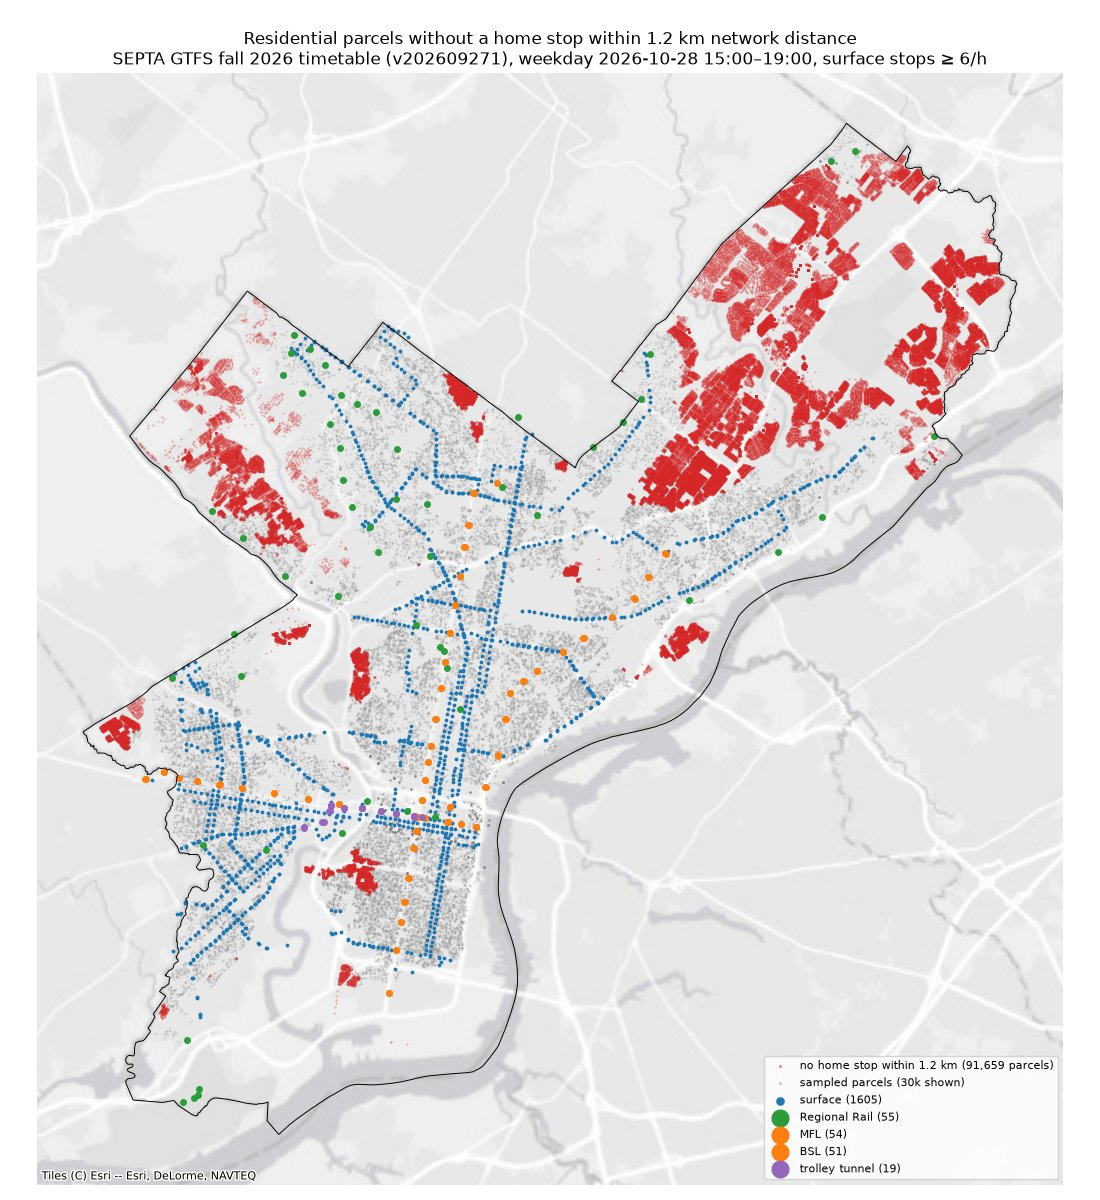
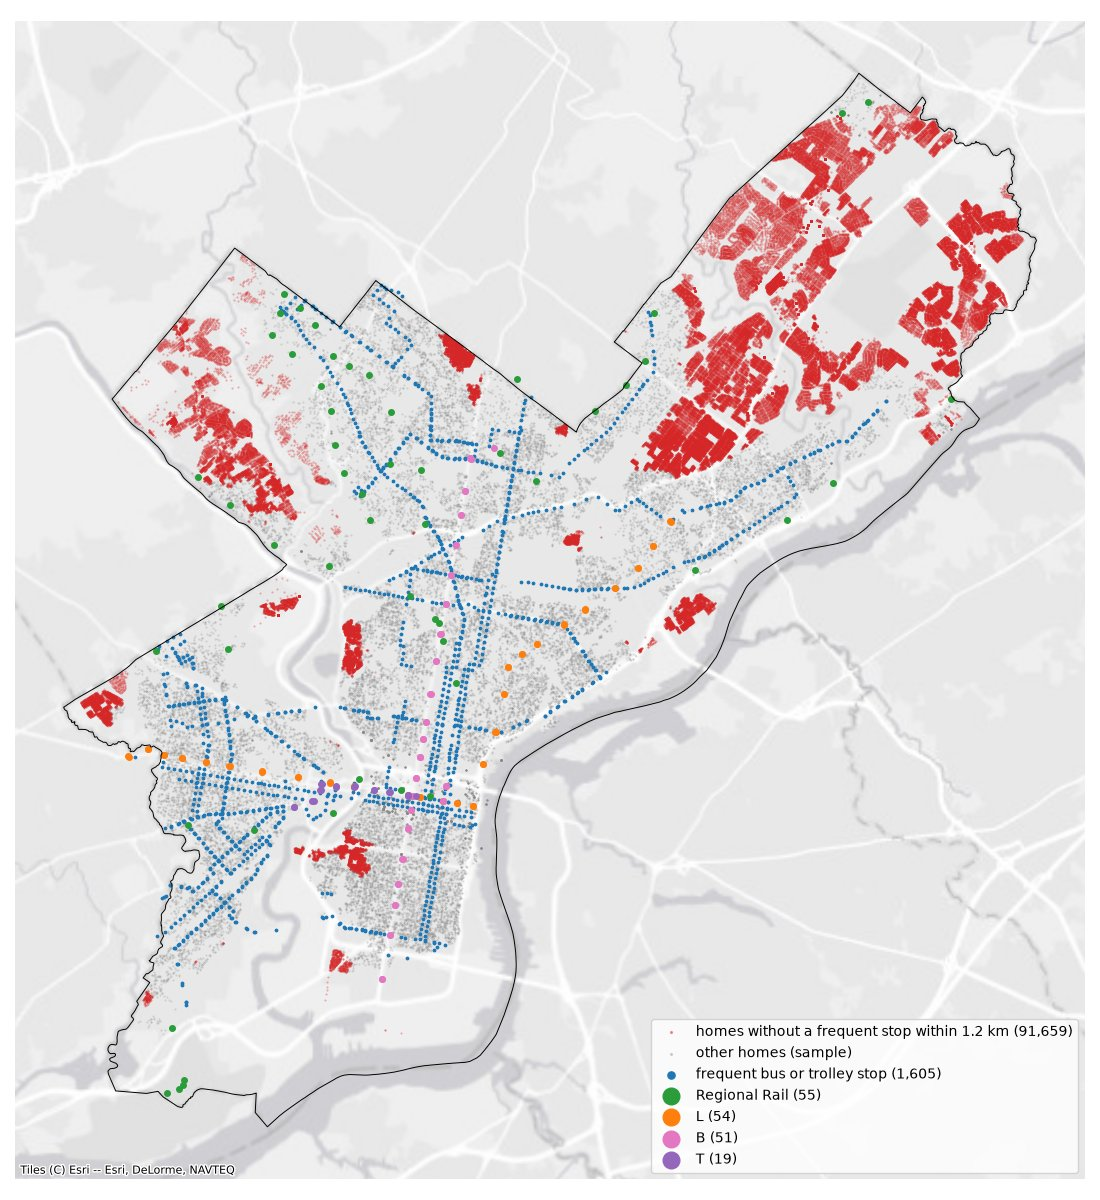
Website build 2026-11-15 from solweig bd204e4

diff --git a/data.html b/data.html
@@ -122,10 +122,9 @@ ul.task-list li input[type="checkbox"] {
    
   <ul class="collapse">
   <li><a href="#sources" id="toc-sources" class="nav-link active" data-scroll-target="#sources">Sources</a></li>
-  <li><a href="#the-shade-map" id="toc-the-shade-map" class="nav-link" data-scroll-target="#the-shade-map">The shade map</a></li>
+  <li><a href="#heights-and-shade" id="toc-heights-and-shade" class="nav-link" data-scroll-target="#heights-and-shade">Heights and shade</a></li>
   <li><a href="#the-heat-model" id="toc-the-heat-model" class="nav-link" data-scroll-target="#the-heat-model">The heat model</a></li>
   <li><a href="#whose-walks" id="toc-whose-walks" class="nav-link" data-scroll-target="#whose-walks">Whose walks</a></li>
-  <li><a href="#university-city" id="toc-university-city" class="nav-link" data-scroll-target="#university-city">University City</a></li>
   <li><a href="#known-gaps" id="toc-known-gaps" class="nav-link" data-scroll-target="#known-gaps">Known gaps</a></li>
   </ul>
 </nav>
@@ -187,7 +186,7 @@ ul.task-list li input[type="checkbox"] {
 </tr>
 <tr class="even">
 <td>Canopy height (CHMv2)</td>
-<td>Meta / WRI, CC BY 4.0</td>
+<td>Meta / WRI</td>
 <td>trees just outside the city</td>
 </tr>
 <tr class="odd">
@@ -197,30 +196,35 @@ ul.task-list li input[type="checkbox"] {
 </tr>
 <tr class="even">
 <td>OpenStreetMap</td>
-<td>OSM contributors, ODbL</td>
-<td>bridges, covered walkways, campus footways</td>
+<td>OSM contributors</td>
+<td>bridges, covered walkways, campus footways in University City</td>
 </tr>
 <tr class="odd">
-<td>Transit</td>
-<td>SEPTA, fall 2026 timetable</td>
-<td>stations and frequent bus stops</td>
+<td>Building entrances and indoor passages</td>
+<td>mapped for this project, 41 buildings in University City</td>
+<td>walks through buildings</td>
 </tr>
 <tr class="even">
+<td>Transit</td>
+<td>SEPTA, fall 2026 timetable</td>
+<td>stations and frequent bus or trolley stops</td>
+</tr>
+<tr class="odd">
 <td>Properties</td>
 <td>City of Philadelphia (OPA)</td>
 <td>homes, where walks end</td>
 </tr>
-<tr class="odd">
+<tr class="even">
 <td>Hourly weather</td>
 <td>ERA5 (ECMWF), via Open-Meteo</td>
 <td>weather for the heat model</td>
 </tr>
-<tr class="even">
+<tr class="odd">
 <td>Heat model</td>
 <td>SOLWEIG 2022a (solweig-gpu 2.0.0)</td>
 <td>felt temperature (UTCI) at 1 m</td>
 </tr>
-<tr class="odd">
+<tr class="even">
 <td>Surface temperature, air temperature</td>
 <td>USGS Landsat 8; NOAA ACIS</td>
 <td>heat figures on the Story page</td>
@@ -228,8 +232,8 @@ ul.task-list li input[type="checkbox"] {
 </tbody>
 </table>
 </section>
-<section id="the-shade-map" class="level2">
-<h2 class="anchored" data-anchor-id="the-shade-map">The shade map</h2>
+<section id="heights-and-shade" class="level2">
+<h2 class="anchored" data-anchor-id="heights-and-shade">Heights and shade</h2>
 <div class="stat-row">
 <div>
 <div class="v">
@@ -252,25 +256,17 @@ points checked for shade, every 2 m
 24
 </div>
 <div class="label">
-hours: June 24 and July 29, 8:00–19:00
-</div>
-</div>
-<div>
-<div class="v">
-1 m
-</div>
-<div class="label">
-height model of buildings and trees
+hours modelled: 8:00–19:00 on two days
 </div>
 </div>
 </div>
-<p>Heights come from the 2022 LiDAR survey. Building heights match the city’s records to 0.5 m (median, 541,222 buildings); bridges and elevated rail cast shadows too. Trees cover 17% of the city (median height 15 m). Covered walkways (4.2 km) are always in shade.</p>
-<div id="0879cbdc" class="cell figure-light" data-execution_count="4">
+<p>Bridges and elevated rail cast shadows as well as buildings and trees. Trees cover 17% of the city (median height 15 m). Covered walkways (4.2 km) are always in shade.</p>
+<div id="c01bf769" class="cell figure-light" data-execution_count="4">
 <div class="cell-output cell-output-display" data-execution_count="4">
 <div class="quarto-figure quarto-figure-center">
 <figure class="figure">
 <p><img src="data_files/figure-html/cell-5-output-1.jpeg" class="img-fluid figure-img"></p>
-<figcaption>University City in the height model: buildings (blue and pink), bridges and other structures (orange) and trees (green).</figcaption>
+<figcaption>University City in the height model: buildings with LiDAR heights (blue) or recorded heights (pink), bridges and other structures (orange) and trees (green).</figcaption>
 </figure>
 </div>
 </div>
@@ -278,8 +274,8 @@ height model of buildings and trees
 </section>
 <section id="the-heat-model" class="level2">
 <h2 class="anchored" data-anchor-id="the-heat-model">The heat model</h2>
-<p>Shade says where the sun is blocked, not how hot a sidewalk feels. For that, the same heights go into SOLWEIG, which computes the radiation a standing person receives from sun, sky, walls and ground and, with the weather, the <strong>UTCI</strong>: how hot it feels, in °C. Above 38 °C is <em>very strong</em> heat stress, above 46 °C <em>extreme</em>.</p>
-<p>The model needs real weather, so the study uses two hot, sunny days of 2025: <strong>June 24</strong>, during a heat wave, and <strong>July 29</strong>. Shadows are computed for the same moments.</p>
+<p>Shade says where the sun is blocked, not how hot a sidewalk feels. SOLWEIG takes the same heights and the weather and computes the radiation a standing person receives from the sun, the sky, walls and the ground. From it comes the <strong>UTCI</strong>, how hot it feels in °C. Above 38 °C is <em>very strong</em> heat stress, above 46 °C <em>extreme</em>.</p>
+<p>The heat model uses the weather of two hot, sunny days in 2025: <strong>June 24</strong>, during a heat wave, and <strong>July 29</strong>.</p>
 <table class="caption-top table">
 <colgroup>
 <col style="width: 16%">
@@ -318,12 +314,12 @@ height model of buildings and trees
 </tr>
 </tbody>
 </table>
-<p>One ERA5 cell covers the whole city, so air temperature and wind are the same everywhere; the heat map varies with sun, shade, walls and ground. The model ran in 400 one-kilometre tiles per day on a GPU and gives a UTCI value at all 3.6 million sidewalk points, every hour.</p>
+<p>One ERA5 cell covers the whole city, so air temperature and wind are the same everywhere; the heat map varies with sun, shade, walls and ground.</p>
 </section>
 <section id="whose-walks" class="level2">
 <h2 class="anchored" data-anchor-id="whose-walks">Whose walks</h2>
-<p>Each walk starts at a rapid-transit station (Regional Rail, L, B, T tunnel) or at a bus stop with at least 6 buses an hour (15:00–19:00), and ends at a home within 1.2 km on foot: 431,114 walks. The other 91,659 homes (17.5%), mostly in the Northeast and Roxborough, have no frequent stop that close.</p>
-<div id="bb39a9d6" class="cell figure-light" data-execution_count="8">
+<p>Each walk starts at a rapid-transit station (Regional Rail, the L and B subway lines, and the T trolley tunnel) or at a bus or trolley stop with at least 6 departures an hour on one route between 15:00 and 19:00, and ends at a home within 1.2 km on foot: 431,114 walks. The other 91,659 homes (17.5%), mostly in the Northeast and Roxborough, have no frequent stop that close.</p>
+<div id="afdf9aa1" class="cell figure-light" data-execution_count="8">
 <div class="cell-output cell-output-display" data-execution_count="8">
 <div class="quarto-figure quarto-figure-center">
 <figure class="figure">
@@ -334,18 +330,12 @@ height model of buildings and trees
 </div>
 </div>
 </section>
-<section id="university-city" class="level2">
-<h2 class="anchored" data-anchor-id="university-city">University City</h2>
-<p>In University City, entrances and indoor passages of 41 buildings were mapped (4.4 km; 10 buildings open without a Penn ID), and campus footpaths from OpenStreetMap were added.</p>
-</section>
 <section id="known-gaps" class="level2">
 <h2 class="anchored" data-anchor-id="known-gaps">Known gaps</h2>
 <ul>
 <li>Campus and park paths are missing outside University City, so cooler options there are understated.</li>
-<li>Two clear, hot days; trees from leaf-off LiDAR and 2018 land cover, buildings from 2022.</li>
-<li>One weather cell for the city: no neighbourhood differences in air temperature or wind. Trees let a fixed 3% of the sun through.</li>
-<li>Missing footprints, new buildings and temporary objects affect shade locally.</li>
-<li>The timetable is one weekday in fall 2026.</li>
+<li>Milder or cloudy days are not modelled.</li>
+<li>Trees come from leaf-off LiDAR and 2018 land cover, and let a fixed 3% of the sun through.</li>
 </ul>
 
 

diff --git a/methods.html b/methods.html
@@ -156,7 +156,6 @@ window.Quarto = {
   <li><a href="#walks-home-from-transit" id="toc-walks-home-from-transit" class="nav-link" data-scroll-target="#walks-home-from-transit">Walks home from transit</a></li>
   <li><a href="#metrics" id="toc-metrics" class="nav-link" data-scroll-target="#metrics">Metrics</a></li>
   <li><a href="#indoor-scenarios-university-city" id="toc-indoor-scenarios-university-city" class="nav-link" data-scroll-target="#indoor-scenarios-university-city">Indoor scenarios (University City)</a></li>
-  <li><a href="#how-we-checked" id="toc-how-we-checked" class="nav-link" data-scroll-target="#how-we-checked">How we checked</a></li>
   </ul>
 </nav>
     </div>
@@ -187,7 +186,7 @@ window.Quarto = {
 <h2 class="anchored" data-anchor-id="pipeline">Pipeline</h2>
 <ol type="1">
 <li><strong>Heights.</strong> 2022 LiDAR: ground, buildings and trees at 1 m.</li>
-<li><strong>Shadows.</strong> Every hour from 8:00 to 19:00 on June 24 and July 29, 2025, a ray from every 2 m of sidewalk towards the sun: <em>building shade</em> if a building, bridge or the ground blocks it, <em>tree shade</em> if only trees do, otherwise sun. The sun of an hour sits at half past the hour before (15:00 = 14:30), as in the heat model.</li>
+<li><strong>Shadows.</strong> Every hour from 8:00 to 19:00 on June 24 and July 29, 2025, a ray is cast from every 2 m of sidewalk towards the sun. A point is in <em>building shade</em> if a building, a bridge or the ground blocks the ray, in <em>tree shade</em> if only trees do, and in the sun otherwise.</li>
 <li><strong>Heat.</strong> SOLWEIG turns the same heights and the weather into the <strong>UTCI</strong>, how hot it feels, at every square metre.</li>
 <li><strong>Sidewalks.</strong> Each sidewalk gets, per hour, its metres of sun, tree shade and building shade, and its UTCI.</li>
 <li><strong>Routes.</strong> Each walk has three routes: <strong>shortest</strong>, <strong>shadiest</strong> (shade cost) and <strong>coolest</strong> (heat cost).</li>
@@ -198,7 +197,7 @@ window.Quarto = {
 <p>The shadiest walk uses the cost function of Wen et al.&nbsp;(2025):</p>
 <p><span class="math display">\[C = L_{\text{sun}} + (1 - 0.5\,\theta)\,L_{\text{tree}} + (1 - \theta)\,L_{\text{building}} + (1 - 1.5\,\theta)\,L_{\text{indoor}}\]</span></p>
 <p>A sunny metre costs 1, tree shade 1 − 0.5θ, building shade 1 − θ, an indoor metre 1 − 1.5θ. θ grows with the distance already walked, so shade matters more the longer the walk:</p>
-<div id="89956d1a" class="cell" data-execution_count="3">
+<div id="50773cd6" class="cell" data-execution_count="3">
 <div class="cell-output cell-output-display" data-execution_count="3">
 <div class="quarto-figure quarto-figure-center">
 <figure class="figure">
@@ -212,14 +211,13 @@ window.Quarto = {
 </section>
 <section id="the-cost-of-a-hot-metre" class="level2">
 <h2 class="anchored" data-anchor-id="the-cost-of-a-hot-metre">The cost of a hot metre</h2>
-<p>The coolest walk keeps θ but values each metre by its UTCI:</p>
+<p>The coolest walk uses the same θ but prices each metre by its UTCI instead of its shade class:</p>
 <p><span class="math display">\[C_{\text{heat}} = \sum_{\text{edges}} L\,(1 - \theta\,r), \qquad r = \frac{U_{\text{sun}} - U}{U_{\text{sun}} - U_{\text{building}}}\]</span></p>
-<p><span class="math inline">\(U\)</span> is the sidewalk’s UTCI; <span class="math inline">\(U_{\text{sun}}\)</span> and <span class="math inline">\(U_{\text{building}}\)</span> are the city medians in sun and in building shade at that hour (15:00: about 45.3 and 40.5 °C). A typically sunny metre costs 1 and a typically building-shaded one 1 − θ, as in the shade cost; everything in between follows its UTCI (<span class="math inline">\(r\)</span> kept between −1 and 1.5). Indoor passages have no UTCI, so the coolest walk stays outdoors.</p>
+<p><span class="math inline">\(U\)</span> is the sidewalk’s UTCI; <span class="math inline">\(U_{\text{sun}}\)</span> and <span class="math inline">\(U_{\text{building}}\)</span> are the city medians in sun and in building shade at that hour (at 15:00 on June 24, 45.9 and 41.3 °C). A metre as hot as a typical sunny sidewalk costs 1, and a metre as cool as typical building shade costs 1 − θ, as in the shade cost. Every other metre falls in between, in proportion to its UTCI. Indoor passages have no UTCI, so the coolest walk stays outdoors.</p>
 </section>
 <section id="walks-home-from-transit" class="level2">
 <h2 class="anchored" data-anchor-id="walks-home-from-transit">Walks home from transit</h2>
-<p>Every home within 1.2 km of a frequent stop is one walk, stop to home (431,114 walks). Results are reported by length (under 300 m, 300–800 m, 800–1,200 m), since short walks rarely have an alternative, and for rapid transit and buses separately.</p>
-<p>The direction does not matter: walking home to stop instead gives a mean sun reduction of 13.8% against 13.8% (500 walks, correlation 0.99).</p>
+<p>Each walk runs from the stop to the home. Results are reported by walk length (under 300 m, 300–800 m, 800–1,200 m), since short walks rarely have an alternative, and for stations and bus or trolley stops separately.</p>
 </section>
 <section id="metrics" class="level2">
 <h2 class="anchored" data-anchor-id="metrics">Metrics</h2>
@@ -285,15 +283,11 @@ window.Quarto = {
 </tr>
 </tbody>
 </table>
-<p>Weighted exposure falls about a tenth as much as sun: with θ near 0.2, each metre of sun avoided lowers C by only 0.15–0.2 m.</p>
+<p>Weighted exposure falls much less than sun because, with θ near 0.2, each metre of sun avoided lowers C by only 0.15–0.2 m.</p>
 </section>
 <section id="indoor-scenarios-university-city" class="level2">
 <h2 class="anchored" data-anchor-id="indoor-scenarios-university-city">Indoor scenarios (University City)</h2>
 <p>Mapped entrances are linked to the nearest sidewalk; passages through buildings count as indoor walking. Three cases: outdoor only, plus buildings open without a Penn ID, plus all mapped buildings. The shortest route is always the outdoor one.</p>
-</section>
-<section id="how-we-checked" class="level2">
-<h2 class="anchored" data-anchor-id="how-we-checked">How we checked</h2>
-<p>The five stations with the largest sun reduction were checked on aerial photos; checks of the heat model are in the <a href="./technical.html">technical notes</a>.</p>
 
 
 </section>

diff --git a/app/walk.html b/app/walk.html
@@ -8,7 +8,7 @@
 <link rel="preconnect" href="https://fonts.gstatic.com" crossorigin>
 <link href="https://fonts.googleapis.com/css2?family=IBM+Plex+Sans:wght@300;400;500&family=Space+Grotesk:wght@500;600&family=Space+Mono&display=swap" rel="stylesheet">
 <link rel="stylesheet" href="vendor/maplibre-gl.css">
-<link rel="stylesheet" href="css/site.css?v=9270be5">
+<link rel="stylesheet" href="css/site.css?v=bd204e4">
 <style>
   /* preview of story screen 13: the map fills the window, text on the left, the profile at the bottom */
   #map { position: fixed; inset: 0; }
@@ -58,8 +58,8 @@
 </div>
 <script src="vendor/maplibre-gl.js"></script>
 <script type="module">
-  import { nav, baseStyle, getJSON, newMap, DEMO_CENTER } from "./js/common.js?v=9270be5";
-  import { createWalk } from "./js/walk.js?v=9270be5";
+  import { nav, baseStyle, getJSON, newMap, DEMO_CENTER } from "./js/common.js?v=bd204e4";
+  import { createWalk } from "./js/walk.js?v=bd204e4";
   nav("index.html");
   const $ = (id) => document.getElementById(id);
   const data = await getJSON("data/walk.json");

diff --git a/app/tool.html b/app/tool.html
@@ -9,7 +9,7 @@
 <link rel="preconnect" href="https://fonts.gstatic.com" crossorigin>
 <link href="https://fonts.googleapis.com/css2?family=IBM+Plex+Sans:wght@300;400;500&family=Space+Grotesk:wght@500;600&family=Space+Mono&display=swap" rel="stylesheet">
 <link rel="stylesheet" href="vendor/maplibre-gl.css">
-<link rel="stylesheet" href="css/site.css?v=9270be5">
+<link rel="stylesheet" href="css/site.css?v=bd204e4">
 <script>
   // a page cross-fade the browser skips (e.g. in a background tab) rejects its promises; nothing to do about it
   const quiet = (e) => { const t = e.viewTransition; if (t) [t.ready, t.finished, t.updateCallbackDone].forEach((q) => q.catch(() => {})); };
@@ -71,6 +71,6 @@
   <div class="block"><button class="ghost" id="swap">Swap A and B</button> <button class="ghost" id="reset">Clear</button></div>
 </div>
 <script src="vendor/maplibre-gl.js"></script>
-<script type="module" src="js/tool.js?v=9270be5"></script>
+<script type="module" src="js/tool.js?v=bd204e4"></script>
 </body>
 </html>

diff --git a/app/index.html b/app/index.html
@@ -9,7 +9,7 @@
 <link rel="preconnect" href="https://fonts.gstatic.com" crossorigin>
 <link href="https://fonts.googleapis.com/css2?family=IBM+Plex+Sans:wght@300;400;500&family=Space+Grotesk:wght@500;600&family=Space+Mono&display=swap" rel="stylesheet">
 <link rel="stylesheet" href="vendor/maplibre-gl.css">
-<link rel="stylesheet" href="css/site.css?v=9270be5">
+<link rel="stylesheet" href="css/site.css?v=bd204e4">
 <script>
   // a page cross-fade the browser skips (e.g. in a background tab) rejects its promises; nothing to do about it
   const quiet = (e) => { const t = e.viewTransition; if (t) [t.ready, t.finished, t.updateCallbackDone].forEach((q) => q.catch(() => {})); };
@@ -368,6 +368,6 @@
 </main>
 <script src="vendor/maplibre-gl.js"></script>
 <script src="vendor/pmtiles.js"></script>
-<script type="module" src="js/home.js?v=9270be5"></script>
+<script type="module" src="js/home.js?v=bd204e4"></script>
 </body>
 </html>

diff --git a/app/map.html b/app/map.html
@@ -9,7 +9,7 @@
 <link rel="preconnect" href="https://fonts.gstatic.com" crossorigin>
 <link href="https://fonts.googleapis.com/css2?family=IBM+Plex+Sans:wght@300;400;500&family=Space+Grotesk:wght@500;600&family=Space+Mono&display=swap" rel="stylesheet">
 <link rel="stylesheet" href="vendor/maplibre-gl.css">
-<link rel="stylesheet" href="css/site.css?v=9270be5">
+<link rel="stylesheet" href="css/site.css?v=bd204e4">
 <script>
   // a page cross-fade the browser skips (e.g. in a background tab) rejects its promises; nothing to do about it
   const quiet = (e) => { const t = e.viewTransition; if (t) [t.ready, t.finished, t.updateCallbackDone].forEach((q) => q.catch(() => {})); };
@@ -50,6 +50,6 @@
 </div>
 <script src="vendor/maplibre-gl.js"></script>
 <script src="vendor/pmtiles.js"></script>
-<script type="module" src="js/map.js?v=9270be5"></script>
+<script type="module" src="js/map.js?v=bd204e4"></script>
 </body>
 </html>

diff --git a/app/js/tool.js b/app/js/tool.js
@@ -1,8 +1,8 @@
 // Route tool: two clicks -> shortest walk (outdoor network) and the shadiest (sun) or coolest (heat) walk, recomputed in
 // the browser. Panel, legend, time bar and sidewalk colours are the shared components of common.js, as on the city map.
 import { readState, writeState, nav, collapsible, baseStyle, getJSON, COLORS, DEMO_CENTER, ATTR, pct, degC, timeBar, newMap, edgeCoords,
-  pathCoords, routeLayers, sidewalkColor, sidewalkLegend, SIDEWALK_WIDTH, SIDEWALK_OPACITY, SIDEWALK_DIM, measureControl, MEASURES } from "./common.js?v=9270be5";
-import { route } from "./router.js?v=9270be5";
+  pathCoords, routeLayers, sidewalkColor, sidewalkLegend, SIDEWALK_WIDTH, SIDEWALK_OPACITY, SIDEWALK_DIM, measureControl, MEASURES } from "./common.js?v=bd204e4";
+import { route } from "./router.js?v=bd204e4";
 
 nav("tool.html");
 const $ = (id) => document.getElementById(id);

diff --git a/app/js/common.js b/app/js/common.js
@@ -1,8 +1,8 @@
 // Shared helpers for the hand-written pages: navigation, basemap, colours, data loading.
 
 // cache key for scripts and data: "dev" in the source; scripts/publish_site.sh writes the commit into the published copy
-// (here and in every "?v=9270be5"), so returning visitors never mix new scripts with cached old data
-export const VERSION = "9270be5";
+// (here and in every "?v=bd204e4"), so returning visitors never mix new scripts with cached old data
+export const VERSION = "bd204e4";
 
 export const COLORS = { sun: "#ff8a3d", bldg: "#5b8cff", tree: "#43c27a", indoor: "#b48cff", cool: "#35d0e0", dim: "#8b8a84" };
 // grid clusters 0-2; colour-blind safe (checked with the dataviz palette validator: CVD ΔE >= 16 on #07080b)

diff --git a/app/js/map.js b/app/js/map.js
@@ -2,7 +2,7 @@
 // rapid-transit stations. Panel, legend, time bar and sidewalk colours are the shared components of common.js, as on
 // the route tool; one measure toggle (sun / heat) switches the sidewalks, the grid and the stations together.
 import { VERSION, readState, writeState, nav, collapsible, baseStyle, getJSON, pmtilesProtocol, COLORS, CLUSTERS, GRID_RAMPS, ATTR,
-  pct, degC, timeBar, newMap, sidewalkColor, sidewalkLegend, SIDEWALK_WIDTH, SIDEWALK_OPACITY, measureControl, rampHTML, rampExpr } from "./common.js?v=9270be5";
+  pct, degC, timeBar, newMap, sidewalkColor, sidewalkLegend, SIDEWALK_WIDTH, SIDEWALK_OPACITY, measureControl, rampHTML, rampExpr } from "./common.js?v=bd204e4";
 
 nav("map.html");
 pmtilesProtocol();

diff --git a/app/js/home.js b/app/js/home.js
@@ -2,8 +2,8 @@
 // sentence; on two screens the day plays by itself (08:00 -> 19:00).
 // Colours, ramps, legends and route styles are the shared ones of common.js, as on the route tool and the city map.
 import { VERSION, nav, baseStyle, getJSON, pmtilesProtocol, COLORS, CLUSTERS, GRID_RAMPS, ATTR, pct, degC, newMap, routeLayers,
-  ROUTE_LAYERS, sidewalkColor, sidewalkLegend, SIDEWALK_WIDTH, rampHTML, rampExpr, UTCI_STOPS } from "./common.js?v=9270be5";
-import { createWalk } from "./walk.js?v=9270be5";
+  ROUTE_LAYERS, sidewalkColor, sidewalkLegend, SIDEWALK_WIDTH, rampHTML, rampExpr, UTCI_STOPS } from "./common.js?v=bd204e4";
+import { createWalk } from "./walk.js?v=bd204e4";
 
 nav("index.html");
 pmtilesProtocol();

diff --git a/app/js/walk.js b/app/js/walk.js
@@ -2,7 +2,7 @@
 // same pace; the walked part of each route turns the colour of its UTCI, and a profile below draws UTCI against the
 // distance walked, with the extreme heat-stress band (UTCI >= 46 C). Data: data/walk.json (phase 10 web-walk), one
 // entry per hour of the first study day, every walk as its 2 m sample points (lon, lat, UTCI, length per point).
-import { COLORS, UTCI_STOPS } from "./common.js?v=9270be5";
+import { COLORS, UTCI_STOPS } from "./common.js?v=bd204e4";
 
 const C_STOPS = UTCI_STOPS.map((v, i) => (i % 2 ? v : v / 10));          // UTCI in C, not x 10
 const uColor = ["interpolate", ["linear"], ["get", "u"], ...C_STOPS];
